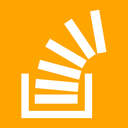
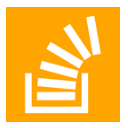
new stack overflow image

diff --git a/index.html b/index.html
@@ -10,15 +10,21 @@
 		<header>
 			<div class="container clearfix">
 				<h1 class="header">Anna Bruestle</h1>
-				<section class="button button2"><a href="contact.html">Contact</a></section>
-				<section class="button"><a href="portfolio.html">Portfolio</a></section>
-				<section class="button"><a href="index.html">About</a></section>
+				<section class="button button2">
+					<a href="contact.html">Contact</a>
+				</section>
+				<section class="button">
+					<a href="portfolio.html">Portfolio</a>
+				</section>
+				<section class="button">
+					<a href="index.html">About</a>
+				</section>
 			</div>
 		</header>
 		<div class="container clearfix">
 			<section id="main-bio">
 				<h1>About Me</h1>
-				<img id="bio-image" src="./assets/images/Photograph 07.jpg" alt="Your Name">
+				<img id="bio-image" src="./assets/images/Photograph 07.jpg" alt="Anna Bruestle">
 				<p>
 					I am a 27-year old programmer from Pennington, New Jersey.
 				</p>
@@ -34,11 +40,16 @@
 			</section>
 			<section id="sidebar">
 				<h2>Connect with Me</h2>
-				<ul>
-					<li><strong>Email:</strong> <a href="mailto:anna@bruestle.net">anna@bruestle.net</a></li>
-					<li><strong>Github:</strong> <a href="https://github.com/abruestle" target="_blank">abruestle</a></li>
-					<li><strong>Portfolio:</strong> <a href="#">coming soon</a></li>
-				</ul>
+				<a href="https://github.com/abruestle" target="_blank" class="connect-image">
+					<img class="connect-image" src="./assets/images/if_github_square_107105.png" alt="github">
+				</a>
+				<a href="https://www.linkedin.com/in/anna-bruestle-1a81624a/" target="_blank" class="connect-image">
+					<img class="connect-image" src="./assets/images/if_linkedin_square_color_107091.png" alt="linked in">
+				</a>
+				<a href="https://stackoverflow.com/users/8611310/a-bruestle" target="_blank" class="connect-image">
+					<img class="connect-image" src="./assets/images/if_stackoverflow_273179.png" alt="stackoverflow">
+				</a>
+				<br>
 			</section>
 		</div>
 	</body>

diff --git a/assets/css/style.css b/assets/css/style.css
@@ -99,6 +99,23 @@ p, section {
   margin-right: 20px;
 }
 
+.port-image {
+	
+}
+
+.connect-image {
+	width: 65px;
+	text-decoration:none;
+}
+
+.left {
+	float:left;
+}
+
+.right {
+	float:right;
+}
+
 .button {
 	border-right: 1px;
 	float: right;
@@ -123,10 +140,11 @@ p, section {
   	border-bottom: 0px;
 }
 
-.button a:link    { color: #777; text-decoration: none;}
-.button a:visited { color: #777; text-decoration: none;}
-.button a:active  { color: #777; text-decoration: none;}
-.button a:hover  { color: #777; text-decoration: none;}
+.button a:link, .button a:visited, .button a:active, .button a:hover { 
+	color: #777;
+	text-decoration: none;
+}
+
 
 .clearfix::after {
 Content: "";
